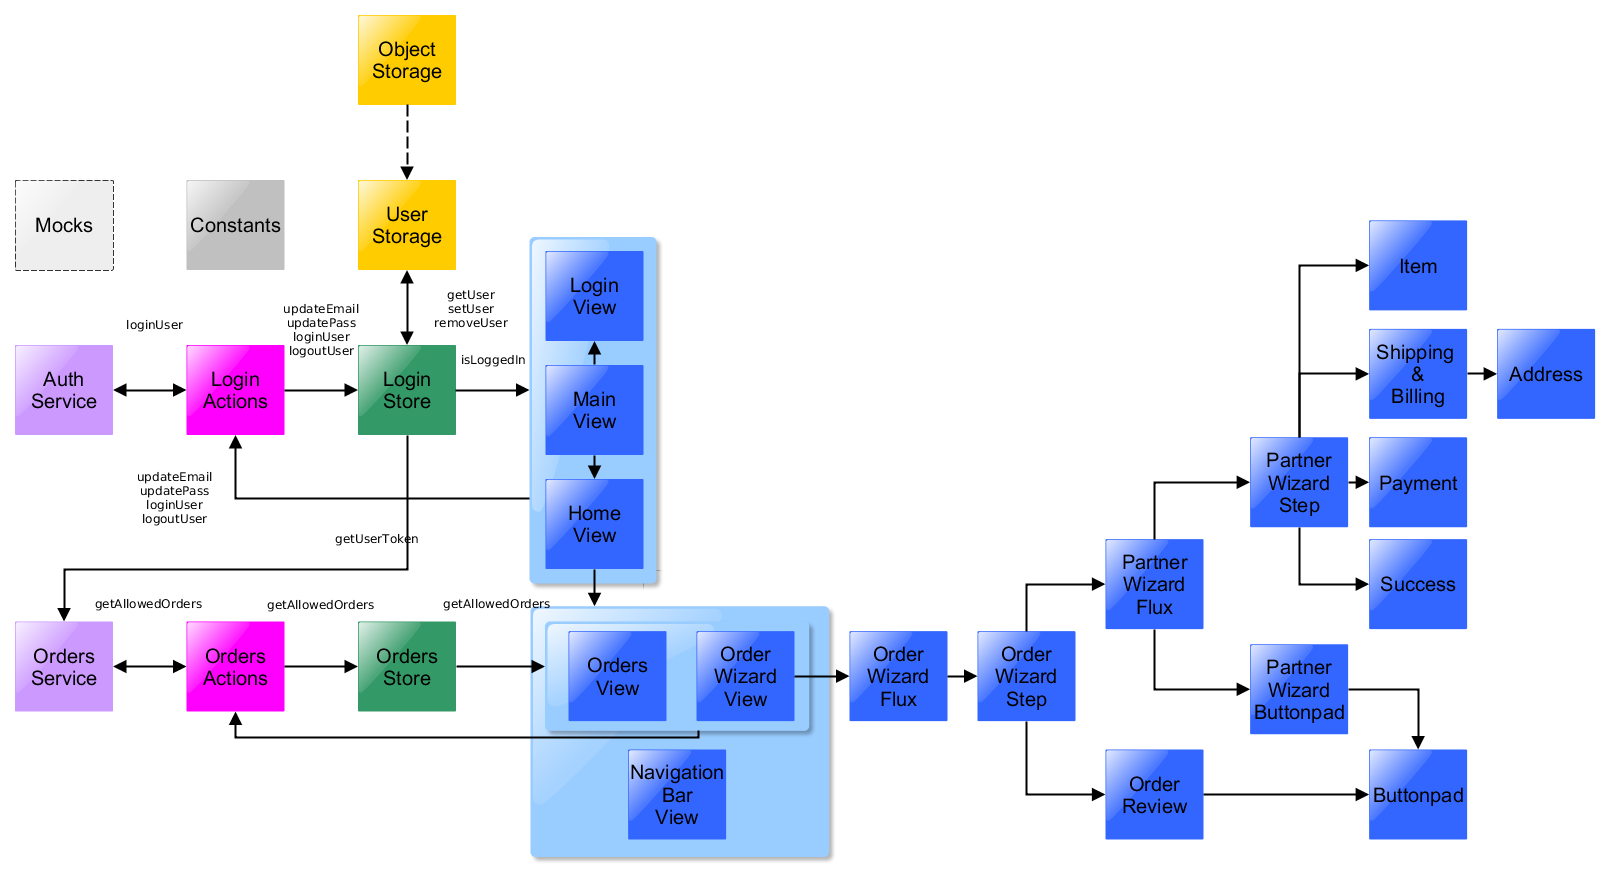
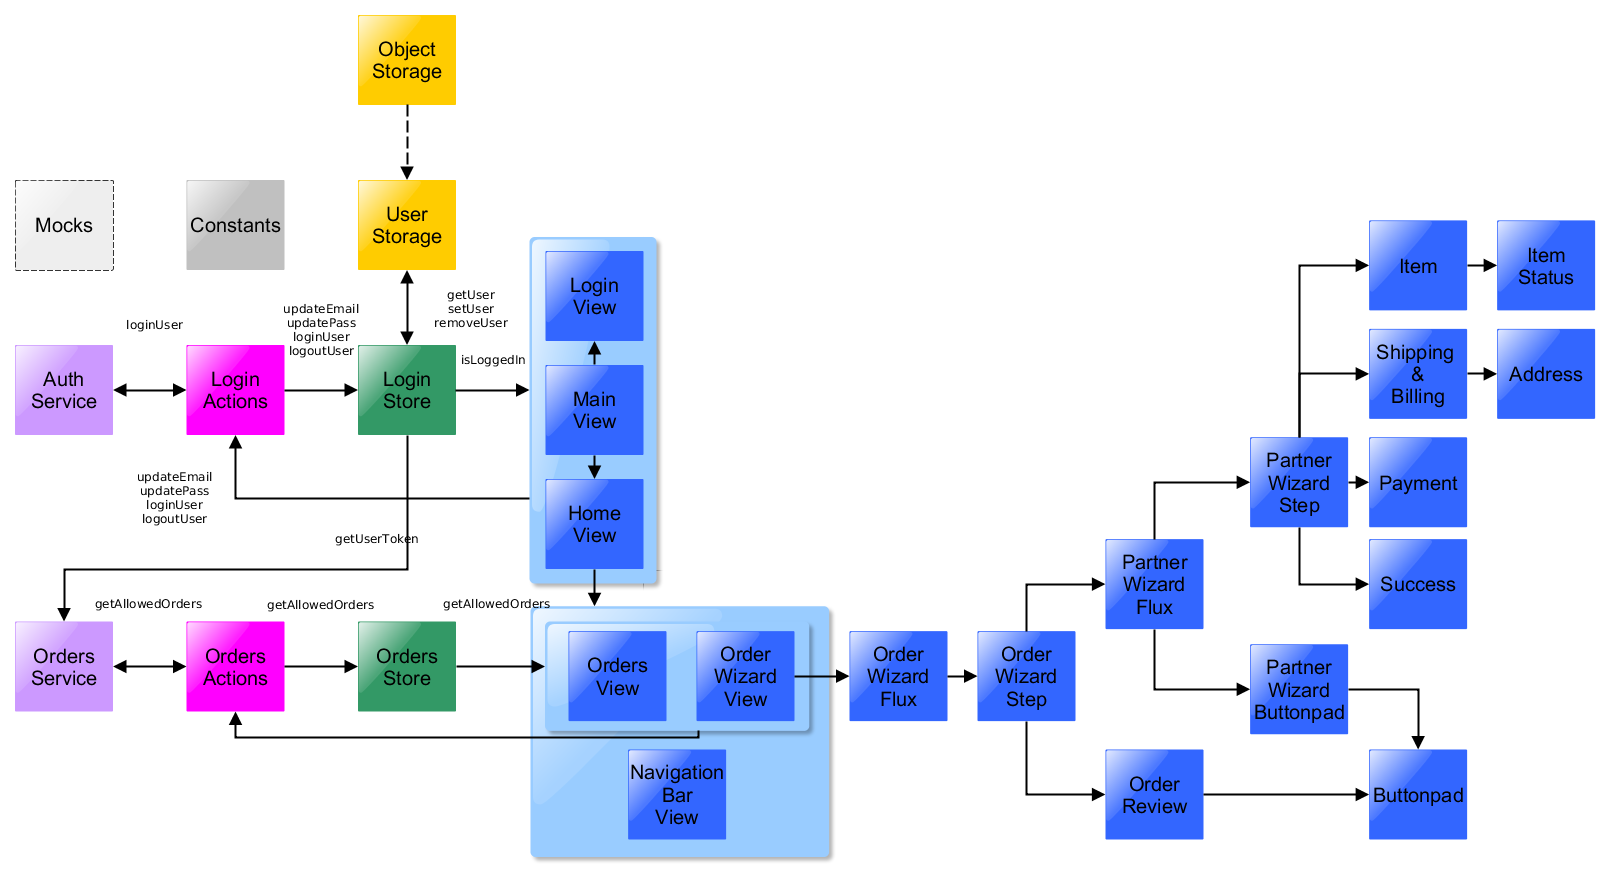
Added ItemStatus to Item component view

Changed region(s): [[0.9001, 0.2477, 0.9932, 0.3716]]

diff --git a/src/components/homeComponents/resources/itemStatus.js b/src/components/homeComponents/resources/itemStatus.js
@@ -1,0 +1,28 @@
+import React from 'react';
+import {ITEM_OUT_OF_STOCK, ORDER_ITEM_PROCESSED_SUCCESSFULLY, ORDER_ITEM_NOT_PROCESSED_DUE_ORDER_FAILURE, ORDER_ITEM_NOT_PROCESSED_DUE_SITE_FAILURE} from 'constants/orderStatus';
+
+class ItemStatus extends React.Component {
+
+	render() {
+		return (
+			<div>
+			  <label for="status">Status</label>
+			  <br/>
+			  <input id="status" name="status" type="radio" value={ITEM_OUT_OF_STOCK}>Item out of Stock</input>
+			  <br/>
+			  <input id="status" name="status" type="radio" value={ORDER_ITEM_PROCESSED_SUCCESSFULLY}>Item processed succesfully</input>
+			  <br/>
+			  <input id="status" name="status" type="radio" value={ORDER_ITEM_NOT_PROCESSED_DUE_ORDER_FAILURE}>Not processed due Order Failure</input>
+			  <br/>
+			  <input id="status" name="status" type="radio" value={ORDER_ITEM_NOT_PROCESSED_DUE_SITE_FAILURE}>Not processed due Site Failure</input>
+			</div>
+		)
+	}
+
+  handleChange = evt => {
+    this.props.status[evt.target.name] = evt.target.value;
+    this.setState(this.props.status);
+  }
+}
+
+export default ItemStatus;

diff --git a/src/components/homeComponents/steps/item.js b/src/components/homeComponents/steps/item.js
@@ -1,4 +1,5 @@
 import React from 'react';
+import ItemStatus from 'components/homeComponents/resources/itemStatus';
 
 class Item extends React.Component {
   render() {
@@ -31,12 +32,6 @@ class Item extends React.Component {
           </div>
         </div>
         <div>
-          <label for="status">Status</label>
-          <div id="status" name="status" type="number" readonly>
-            {item.status}
-          </div>
-        </div>
-        <div>
           <label for="name">Name</label>
           <div id="name" name="name" type="text" readonly>
             {item.name}
@@ -54,6 +49,7 @@ class Item extends React.Component {
             {item.size}
           </div>
         </div>
+        <ItemStatus status={item.status} />
       </div>
     )
   }
